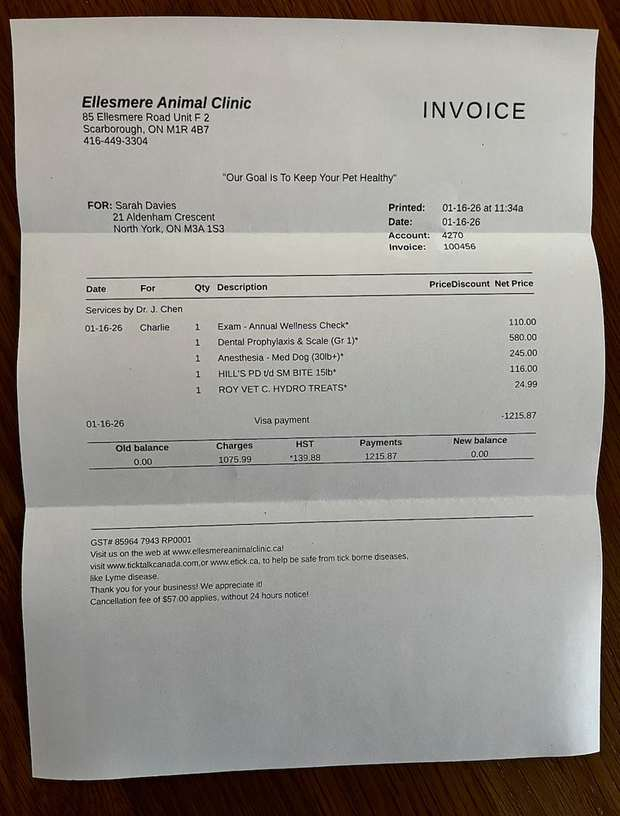
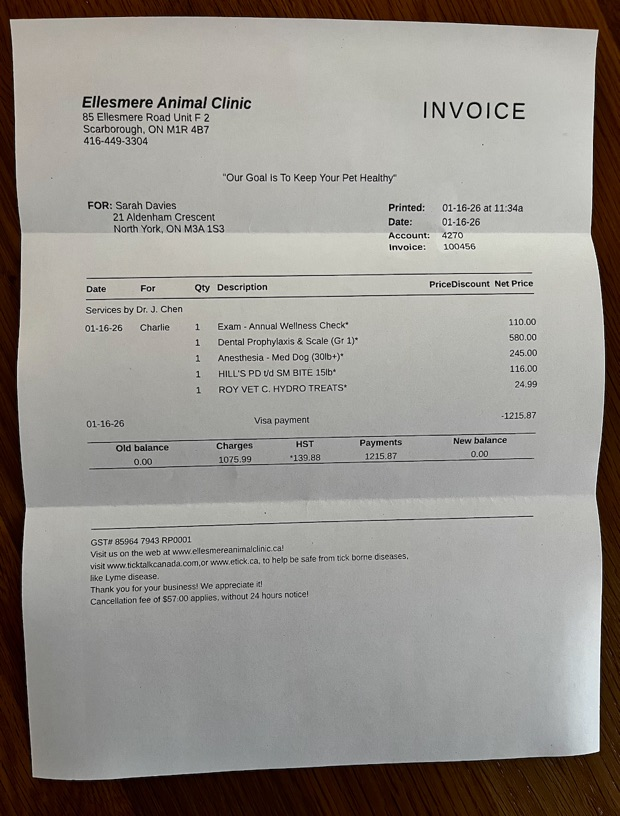
Remove Mobil 1 / Canadian Tire demo, default to pet food, use real clean claim receipt
Site was showing CF&R's live Mobil 1 rebate program as the public demo.
Removed the oil/pet toggle entirely, pet food is now the only scenario
shown. Command Center's audience and ranked bar panels were also
hardcoded to the oil data separately and had drifted out of sync; wired
them to VARIANTS.pet instead of duplicating. Swapped in a real, clean
receipt photo for the Hill's t/d claim.

diff --git a/src/App.jsx b/src/App.jsx
@@ -429,7 +429,7 @@ function BenefitCard({ Icon, title, body, children }) {
 }
 
 function JourneySection() {
-  const [mode, setMode] = useState("oil");
+  const mode = "pet";
   const [phase, setPhase] = useState("idle");   // idle | scan | done
   const [prog, setProg] = useState(0);          // 0..100
   const ref = useRef(null);
@@ -707,20 +707,6 @@ function JourneySection() {
           </div>
         </div>
 
-        {/* scenario toggle */}
-        <div style={{ display: "flex", justifyContent: "center", marginBottom: "1.5rem" }}>
-          <div style={{ display: "inline-flex", background: "#EEF2F6", border: "1px solid #E2E8F0", borderRadius: 10, padding: 4, gap: 4 }}>
-            {[["oil", "Oil change"], ["pet", "Pet food"]].map(([key, label]) => (
-              <button key={key} onClick={() => setMode(key)} className="sl-btn" style={{
-                padding: ".5rem 1.15rem", borderRadius: 7, border: "none", cursor: "pointer",
-                fontFamily: "'Inter',sans-serif", fontSize: ".85rem", fontWeight: 700, transition: "all .2s",
-                background: mode === key ? CYAN_D : "transparent",
-                color: mode === key ? "#fff" : "#64748B",
-              }}>{label}</button>
-            ))}
-          </div>
-        </div>
-
         {/* Scan stage */}
         <div className="sl-scan" style={{ display: "grid", gridTemplateColumns: "minmax(0,340px) 1fr", gap: 24, alignItems: "start" }}>
           {/* Receipt */}
@@ -882,21 +868,16 @@ function CommandCenter() {
       <div style={panel}>
         <div style={eyebrow}>Ready to use audiences</div>
         <div style={{ display: "flex", flexDirection: "column", gap: 9 }}>
-          <Audience Icon={TrendingUp} title="High value buyers" count="1,240" rule="Bought 4+ jugs, stocking up" />
-          <Audience Icon={Percent} title="Value shoppers" count="1,880" rule="Buys on promotion" />
-          <Audience Icon={Droplet} title="Due for next oil change" count="2,130" rule="~6 months since purchase" />
-          <Audience Icon={Snowflake} title="Seasonal switch" count="1,540" rule="Winter and summer oil" />
+          {VARIANTS.pet.audiences.map((a, i) => (
+            <Audience key={i} Icon={a.Icon} title={a.title} count={a.count} rule={a.rule} />
+          ))}
         </div>
       </div>
     );
   }
 
   function SellingPanel() {
-    const breakdowns = [
-      { title: "Top retailers", cols: COL_A, bars: [["Canadian Tire", "58%", 100], ["PartSource", "24%", 41], ["Walmart", "11%", 19]] },
-      { title: "Top products", cols: COL_B, bars: [["Mobil 1 Full Synthetic 5W30", "44%", 100], ["Mobil 1 Extended Performance", "29%", 66], ["Mobil 1 ESP 5W30", "17%", 39]] },
-      { title: "Top complementary products", cols: COL_C, bars: [["Oil filter", "41%", 100], ["Washer fluid", "28%", 68], ["Shop towels", "19%", 46]] },
-    ];
+    const breakdowns = VARIANTS.pet.breakdowns;
     return (
       <div style={panel}>
         <div style={{ display: "flex", justifyContent: "space-between", alignItems: "baseline", flexWrap: "wrap", gap: 8, marginBottom: 10 }}>
